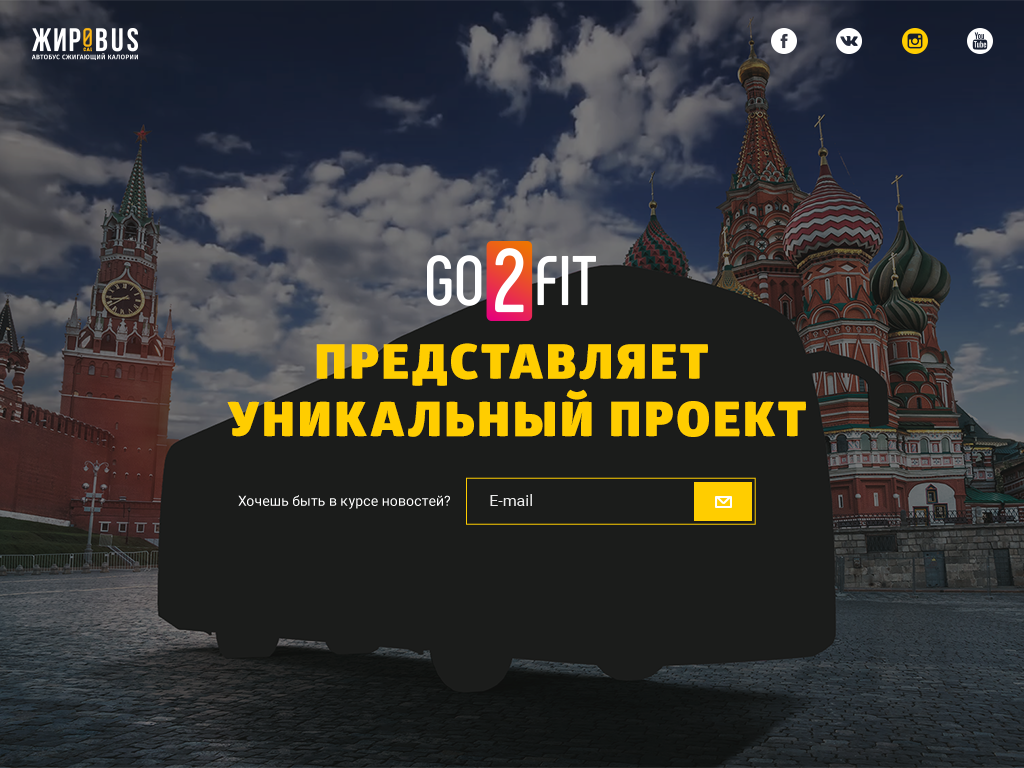
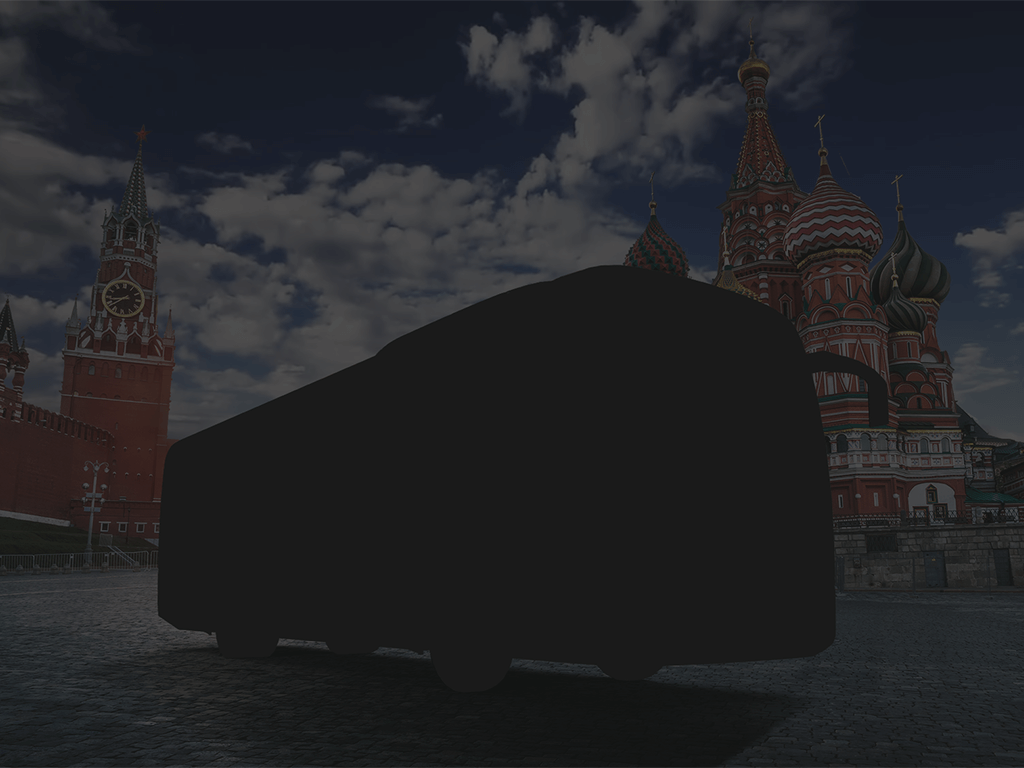
адаптив фона (не до конца)

diff --git a/assets/scss/blocks/_placeholder.scss b/assets/scss/blocks/_placeholder.scss
@@ -6,8 +6,18 @@
   background-size: contain;
   background-position: center 0;
 
-  @include tablet-mini {
+  @include desktop-mini {
+    background-image: url('/images/1366.png');
+  }
+
+  @include tablet {
+    background-size: auto;
+  }
+
+  @media screen and (max-width: 768px){
     padding: 15px;
+    background-image: url('/images/640.png');
+    background-size: cover;
   }
 
   @include phone {
@@ -51,6 +61,10 @@
     max-width: 600px;
     margin: 0 auto;
     margin-top: -15px;
+
+    @include phone {
+      margin-top: -65px;
+    }
 
     .go2fit-logo {
       margin: 15px auto;

diff --git a/assets/scss/inc/_adaptive-mixins.scss b/assets/scss/inc/_adaptive-mixins.scss
@@ -1,6 +1,6 @@
 $phone-width: 480px;
 $tablet-mini-width: 666px;
-$tablet-width: 960px;
+$tablet-width: 1024px;
 $desktop-mini-widrh: 1366px;
 
 @mixin phone {

diff --git a/assets/scss/partials/_title.scss b/assets/scss/partials/_title.scss
@@ -6,4 +6,8 @@
   text-align: center;
   text-transform: uppercase;
   margin-bottom: 30px;
+
+  @include tablet-mini{
+    font-size: 35px;
+  }
 }
